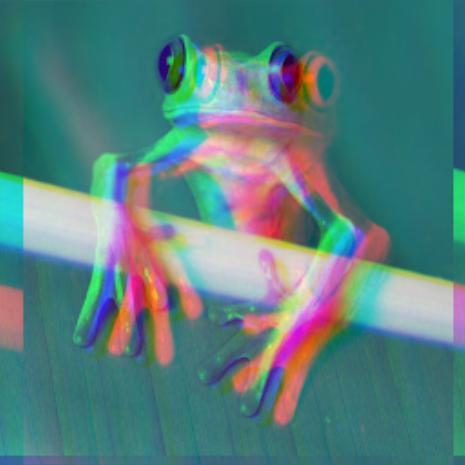
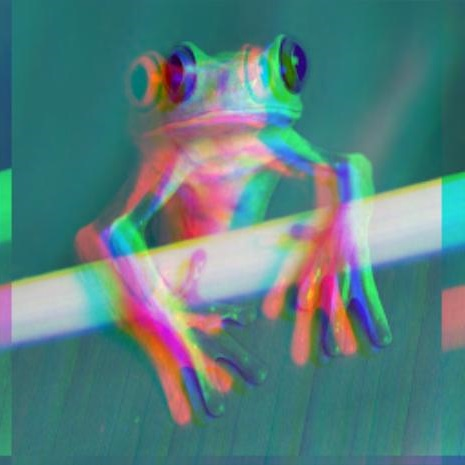
GLSL で画像にフィルタをかけてみるテスト（その２０）

diff --git a/cx20/uroV/index.html b/cx20/uroV/index.html
@@ -24,16 +24,16 @@ varying vec4 vColor;
 varying vec2 vTextureCoord;
 
 void main(void) {
-    vec2 uv = gl_FragCoord.xy / resolution.xy;
+    vec2 uv = vTextureCoord; // gl_FragCoord.xy / resolution.xy;
     vec4 color = vec4(0.0);
 
     float go = sin(time) * 0.01;
     float go2 = sin(time) * 0.01;
     vec2 strenght = vec2(5, 2);
 
-    color.r = texture2D(texture, -uv - vec2(go, 0.0) * strenght).r;
-    color.g = texture2D(texture, -uv - vec2(0.005, go2) * strenght).g;
-    color.b = texture2D(texture, -uv).g;
+    color.r = texture2D(texture, uv - vec2(go, 0.0) * strenght).r;
+    color.g = texture2D(texture, uv - vec2(0.005, go2) * strenght).g;
+    color.b = texture2D(texture, uv).g;
     color.a = 1.0;
 
     gl_FragColor = color;
